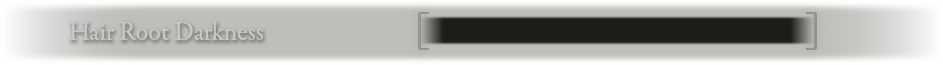
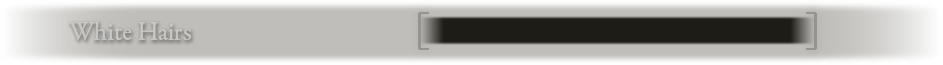
Finished code for Hair section (not sure if i already did a commit & push for this section) and Brow sections of the code in the main function of eldenRandomizer + tweaked a single value in EldenRandom.py

Changed region(s): [[0.0615, 0.3692, 0.3075, 0.6769]]

diff --git a/eldenRandomizer.py b/eldenRandomizer.py
@@ -218,6 +218,16 @@ def main():
     hairRootDark_w, hairRootDark_h = button_font.size(str(attributes[8][3]))
     hairWhite_results = button_font.render(str(attributes[8][4]), True, eldenFontCol)
     hairWhite_w, hairWhite_h = button_font.size(str(attributes[8][4]))
+    
+    brow_results = button_font.render(str(attributes[9][0]), True, eldenFontCol)
+    brow_w, brow_h = button_font.size(str(attributes[9][0]))
+    browLuster_results = button_font.render(str(attributes[9][2]), True, eldenFontCol)
+    browLuster_w, browLuster_h = button_font.size(str(attributes[9][2]))
+    browRootDark_results = button_font.render(str(attributes[9][3]), True, eldenFontCol)
+    browRootDark_w, browRootDark_h = button_font.size(str(attributes[9][3]))
+    browWhiteHairs_results = button_font.render(str(attributes[9][4]), True, eldenFontCol)
+    browWhiteHairs_w, browWhiteHairs_h = button_font.size(str(attributes[9][4]))
+
 
     #skinCol = pygame.draw.rect(screen,attributes[5],(505,401,398,31))
 
@@ -227,7 +237,9 @@ def main():
     uiOffset = -(77*2)
 
     # DEBUG FOR COLORS
-    print(attributes[5]) ## SKIN COLOR
+    print(f"Skin Color: {attributes[5]}") ## SKIN COLOR
+    print(f"Hair Color: {attributes[8][1]}") ## HAIR COLOR
+    print(f"Brow Color: {attributes[9][1]}") ## BROW COLOR
 
     while running:
         origin_img = pygame.image.load('images/ER_origin.png').convert_alpha()
@@ -504,9 +516,28 @@ def main():
         hairRootDark_img = pygame.image.load('images/ER_hair_root_dark.png').convert_alpha()
         hairRootDark_button = button.Button((hairRootDark_img.get_width()/2) - (hairRootDark_img.get_width()/3) + (77*4) + uiOffset,
                                     213+(60*88)+scrollWheel,hairRootDark_img,1)
-        hairWhite_img = pygame.image.load('images/ER_hair_root_dark.png').convert_alpha()
+        hairWhite_img = pygame.image.load('images/ER_hairwhite.png').convert_alpha()
         hairWhite_button = button.Button((hairWhite_img.get_width()/2) - (hairWhite_img.get_width()/3) + (77*4) + uiOffset,
                                     213+(60*89)+scrollWheel,hairWhite_img,1)
+        
+        eyebrow_img = pygame.image.load('images/ER_eyebrows.png').convert_alpha()
+        eyebrow_button = button.Button((eyebrow_img.get_width()/2) - (eyebrow_img.get_width()/3) + (77*3) + uiOffset,
+                                    213+(60*90)+scrollWheel,eyebrow_img,1)
+        brow_img = pygame.image.load('images/ER_brow.png').convert_alpha()
+        brow_button = button.Button((brow_img.get_width()/2) - (brow_img.get_width()/3) + (77*4) + uiOffset,
+                                    213+(60*91)+scrollWheel,brow_img,1)
+        browCol_img = pygame.image.load('images/ER_brow_col.png').convert_alpha()
+        browCol_button = button.Button((browCol_img.get_width()/2) - (browCol_img.get_width()/3) + (77*4) + uiOffset,
+                                    213+(60*92)+scrollWheel,browCol_img,1)
+        browLuster_img = pygame.image.load('images/ER_brow_luster.png').convert_alpha()
+        browLuster_button = button.Button((browLuster_img.get_width()/2) - (browLuster_img.get_width()/3) + (77*4) + uiOffset,
+                                    213+(60*93)+scrollWheel,browLuster_img,1)
+        browRootDark_img = pygame.image.load('images/ER_brow_root_dark.png').convert_alpha()
+        browRootDark_button = button.Button((browRootDark_img.get_width()/2) - (browRootDark_img.get_width()/3) + (77*4) + uiOffset,
+                                    213+(60*94)+scrollWheel,browRootDark_img,1)
+        browWhiteHairs_img = pygame.image.load('images/ER_brow_white_hairs.png').convert_alpha()
+        browWhiteHairs_button = button.Button((browWhiteHairs_img.get_width()/2) - (browWhiteHairs_img.get_width()/3) + (77*4) + uiOffset,
+                                    213+(60*95)+scrollWheel,browWhiteHairs_img,1)
         
         #Randomizer Results Screen
         if randomize_button.draw(screen) == True or isRandButtonClicked == True:
@@ -862,7 +893,32 @@ def main():
             hairWhite_button.draw(screen)
             screen.blit(hairWhite_results,
                         (((hairWhite_img.get_width())*(1-0.44326617179)) + (77/(1-0.38693467336))*4 + (199) - (hairWhite_w*3) + uiOffset,
-                        213+(60*88)+(hairWhite_h/2.5)+scrollWheel))
+                        213+(60*89)+(hairWhite_h/2.5)+scrollWheel))
+            
+            ## Eyebrow Section
+            eyebrow_button.draw(screen)
+
+            brow_button.draw(screen)
+            screen.blit(brow_results,
+                        (((brow_img.get_width())*(1-0.44326617179)) + (77/(1-0.38693467336))*4 + (199) - (brow_w*3) + uiOffset,
+                        213+(60*91)+(brow_h/2.5)+scrollWheel))
+
+            browCol_x = 505 - 42 + 154 + (77/2) + 5 + (77/(1))*3
+            browCol_y = 401+40-(hairCol_img.get_height()/2) + (60*89)
+            browCol_button.draw(screen)
+            pygame.draw.rect(screen,attributes[9][1],(browCol_x + uiOffset,browCol_y+scrollWheel,380,31))
+            browLuster_button.draw(screen)
+            screen.blit(browLuster_results,
+                        (((browLuster_img.get_width())*(1-0.44326617179)) + (77/(1-0.38693467336))*4 + (199) - (browLuster_w*3) + uiOffset,
+                        213+(60*93)+(browLuster_h/2.5)+scrollWheel))
+            browRootDark_button.draw(screen)
+            screen.blit(browRootDark_results,
+                        (((browRootDark_img.get_width())*(1-0.44326617179)) + (77/(1-0.38693467336))*4 + (199) - (browRootDark_w*3) + uiOffset,
+                        213+(60*94)+(browRootDark_h/2.5)+scrollWheel))
+            browWhiteHairs_button.draw(screen)
+            screen.blit(browWhiteHairs_results,
+                        (((browWhiteHairs_img.get_width())*(1-0.44326617179)) + (77/(1-0.38693467336))*4 + (199) - (browWhiteHairs_w*3) + uiOffset,
+                        213+(60*95)+(browWhiteHairs_h/2.5)+scrollWheel))
 
             # Randomizer Screen Title Overlay
             screen.blit(randResults_grad_title, (((resolution[0]) - (randResults_grad.get_width())),

diff --git a/EldenRandom.py b/EldenRandom.py
@@ -251,7 +251,7 @@ class EldenRandom():
 
     #### EldenRandom.all index: 8 [8][0][0]
     def hair():
-        hairstyle = EldenRandom.eldenAttribute(32)
+        hairstyle = EldenRandom.eldenAttribute(32)+1
         hair_col = EldenRandom.eldenColor(False)
         luster = EldenRandom.eldenAttribute(255)
         root_darkness = EldenRandom.eldenAttribute(255)
